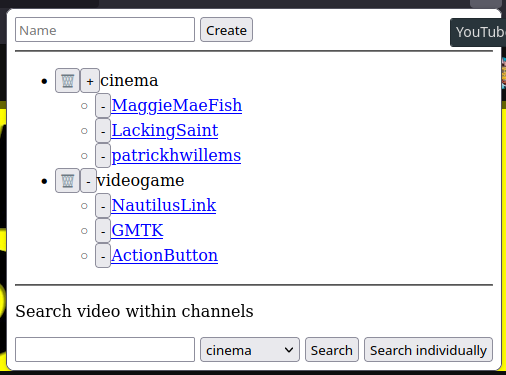
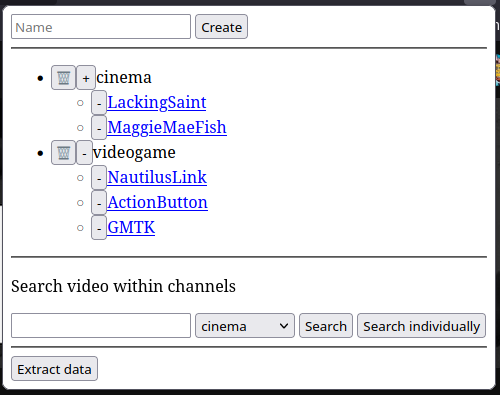
Add extract data

Changed region(s): [[0.0, 0.0, 1.0, 0.9973]]

diff --git a/popup/scripts.js b/popup/scripts.js
@@ -57,8 +57,10 @@ async function newTag(name){
     }
 }
 async function deleteTag(name){
-    delete tags[name];
-    await saveData();
+    if(confirm(`Are you sure you want to delete the tag ${name}?`)){
+        delete tags[name];
+        await saveData();
+    }
 }
 
 // Add tag channel
@@ -101,6 +103,14 @@ function searchIndividually(text, tag){
     }
 }
 
+function extractData(){
+    const jsonData = "data:text/json;charset=utf-8," + encodeURIComponent(JSON.stringify(tags));
+    const downloader = document.createElement('a');
+    downloader.setAttribute("href", jsonData);
+    downloader.setAttribute("download", "youtube-tag.json");
+    downloader.click();
+}
+
 ////////////////////////////////////////////////////////////////////////////////////////
 // INTERFACE
 
@@ -112,6 +122,8 @@ const searchVideoTag = document.querySelector("#search-video select");
 const searchVideoButton = document.querySelector("#search-in-channels");
 const searchIndividuallyButton = document.querySelector("#search-in-each-individually");
 
+const extractDataButton = document.querySelector("#extract-data button");
+
 // Event to when button to new tag is clicked
 newTagButton.addEventListener("click", () => handler('newTag', {tag: newTagInput.value}));
 // Event to when button to search video is clicked
@@ -122,11 +134,13 @@ searchVideoButton.addEventListener("click",
     })
 );
 searchIndividuallyButton.addEventListener("click",
-() => handler('searchIndividually', {
-    text: searchVideoText.value,
-    tag: searchVideoTag.value
-})
+    () => handler('searchIndividually', {
+        text: searchVideoText.value,
+        tag: searchVideoTag.value
+    })
 );
+// Event to when extract data button is clicked
+extractDataButton.addEventListener("click", () => handler('extractData'));
 
 // Return UL list of channels
 function createChannelsList(tag){
@@ -231,7 +245,8 @@ function handler(action, data={}){
         'newTag': () => newTag(data.tag),
         'deleteTag': () => deleteTag(data.tag),
         'searchVideo': () => searchVideo(data.text, data.tag),
-        'searchIndividually': () => searchIndividually(data.text, data.tag)
+        'searchIndividually': () => searchIndividually(data.text, data.tag),
+        'extractData': () => extractData()
     }
     actions[action]();
 

diff --git a/popup/index.html b/popup/index.html
@@ -29,6 +29,11 @@
             <button id="search-in-channels">Search</button>
             <button id="search-in-each-individually">Search individually</button>
         </div>
+        <hr>
+        
+        <div id="extract-data">
+            <Button>Extract data</Button>
+        </div>
 
     </div>
 

diff --git a/README.md b/README.md
@@ -1,8 +1,17 @@
 # youtube-tag
 Extension to tag channels in YouTube
 
-Version 1:
+## Version 1:
+Works as an alternative list of subscriptions, where you can more easily find channels by topic
+### Features
 - Add tag to channel (when in channel page in YouTube)
 - Search for video within the channels of a tag
 
 ![Image of the popup of the extension](./image-popup-extension.png)
+
+### Install
+<div id="install-firefox" class="install-ok">
+  <a href="./youtube-tag.xip">
+    Firefox
+  </a>
+</div>
